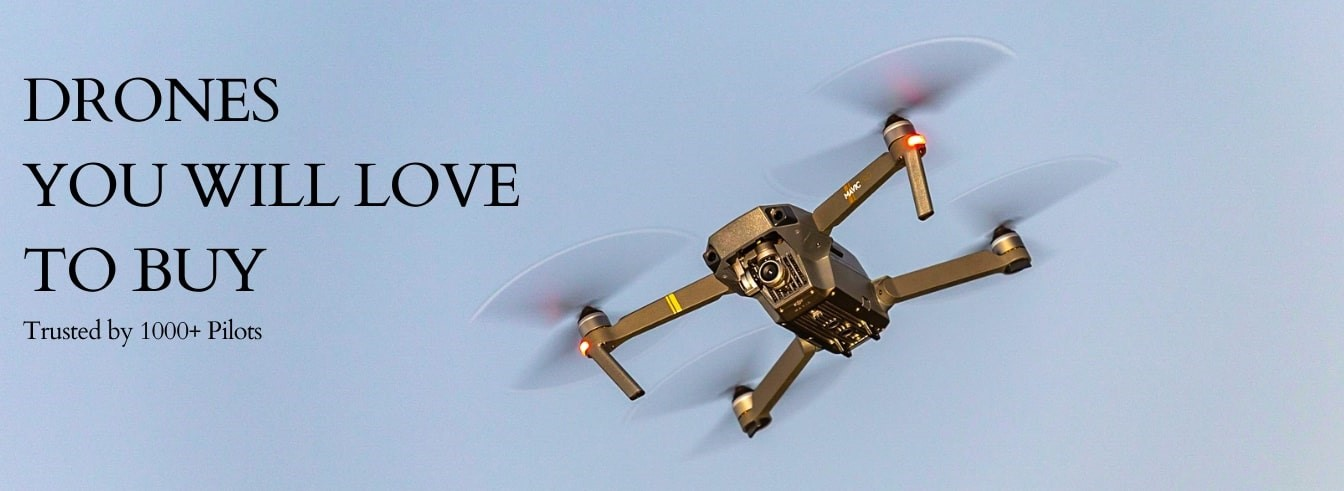
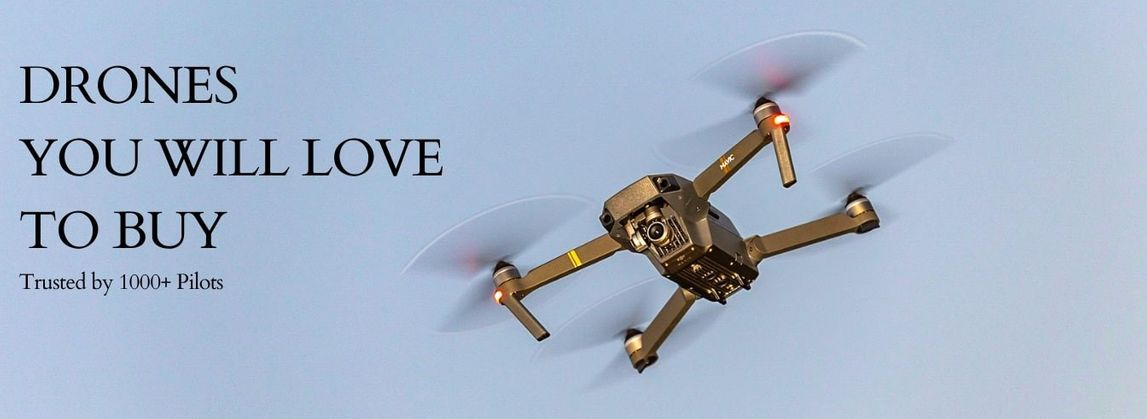
added

diff --git a/components/clients.js b/components/clients.js
@@ -9,8 +9,9 @@ function Client(){
 <section class="mx-auto bg-white">
             <div class="container px-5 mx-auto lg:px-24 lg:py-20">
               <div class="flex flex-col w-full mb-12 text-center">
-                <h2 class="mb-4 text-xs font-semibold tracking-widest text-black uppercase title-font"> The world's best teams use Wickedtemplates to state theire presence. <a href="#" class="font-semibold text-blue-600 lg:mb-0 hover:text-black">Our customers »</a>
+                <h2 class="mb-4 text-xs font- tracking-widest text-black uppercase title-font"> Our Clients
                 </h2>
+                <div class="divider-5">OR</div> 
               </div>
               <div class="grid grid-cols-3 gap-16 text-center lg:grid-cols-6">
                 <div class="flex items-center justify-center ">

diff --git a/components/nav.js b/components/nav.js
@@ -55,7 +55,7 @@ function Nav() {
           <svg fill="none" stroke="currentColor" stroke-linecap="round" stroke-linejoin="round" stroke-width="2" viewBox="0 0 24 24" class="w-6 h-6"><path d="M21 21l-6-6m2-5a7 7 0 11-14 0 7 7 0 0114 0z"></path></svg>
         </button>
       </span>
-      <input type="search" name='q' class="py-4 ml-10 mr-20 w-full text-sm text-white bg-gray-200 rounded-md pl-10 focus:outline-none focus:text-gray-900" placeholder="Search by brand,category, application, etc...."  />
+      <input type="search" name='q' class="py-4 ml-10 mr-20 w-full text-sm text-white bg-gray-200  pl-10 focus:outline-none focus:text-gray-900" placeholder="Search by brand,category, application, etc...."  />
     </div>
   </form>
 </div>

diff --git a/tailwind.config.js b/tailwind.config.js
@@ -2,7 +2,22 @@ module.exports = {
     purge: [],
     darkMode: 'class', // or 'media' or 'class'
     theme: {
-      extend: {},
+      extend: {
+        opacity: {
+          '10': '0.1',
+          '20': '0.2',
+          '95': '0.95',
+         }
+      },
+      divideWidth: {
+        DEFAULT: '1px',
+        '0': '0',
+        '2': '2px',
+       '3': '3px',
+        '4': '4px',
+       '6': '6px',
+       '8': '8px',
+      }
     },
     variants: {
       extend: {

diff --git a/components/slide.js b/components/slide.js
@@ -27,7 +27,7 @@ function Slide(){
 }} navigation={true} className="mySwiper">
   <SwiperSlide>
   <div class="container mx-auto h-84 relative">
-  <img src={'/static/images/1.jpg'} alt="" class="w-full max-h-full  "/>
+  <img src={'/static/images/1.png'} alt="" class="w-full h-96  "/>
   <button class="bg-red-300 absolute top-1/4 left-1/4 rounded-lg p-4">div</button>
 </div>
 

diff --git a/components/location.js b/components/location.js
@@ -8,7 +8,7 @@ function Location(){
 
 <div class="flex flex-col bg-white m-auto p-auto">
 <h1 class="flex py-5 lg:px-20 md:px-10 px-5 lg:mx-40 md:mx-20 mx-5 font-bold text-4xl text-gray-800">
-        Example
+        Search Drones by city
       </h1>
       <div
         class="flex overflow-x-scroll pb-10 hide-scroll-bar"

diff --git a/pages/Home.js b/pages/Home.js
@@ -12,8 +12,8 @@ const Home = () =>
     <Nav></Nav>
     <Header></Header>
     <Slide></Slide>
-    <Location></Location>
     <Grid></Grid>
+    <Location></Location>
     <Client></Client>
     <Faq></Faq>
     <Footer></Footer>
